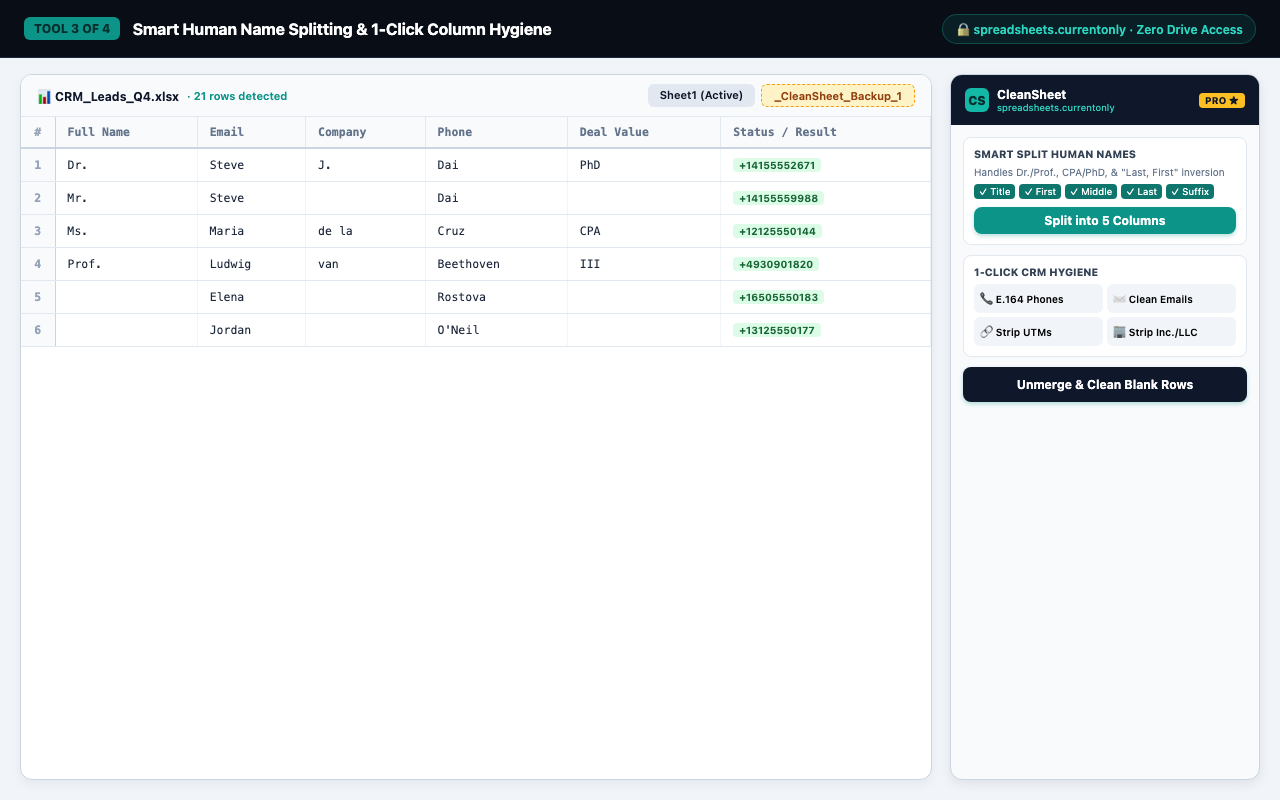
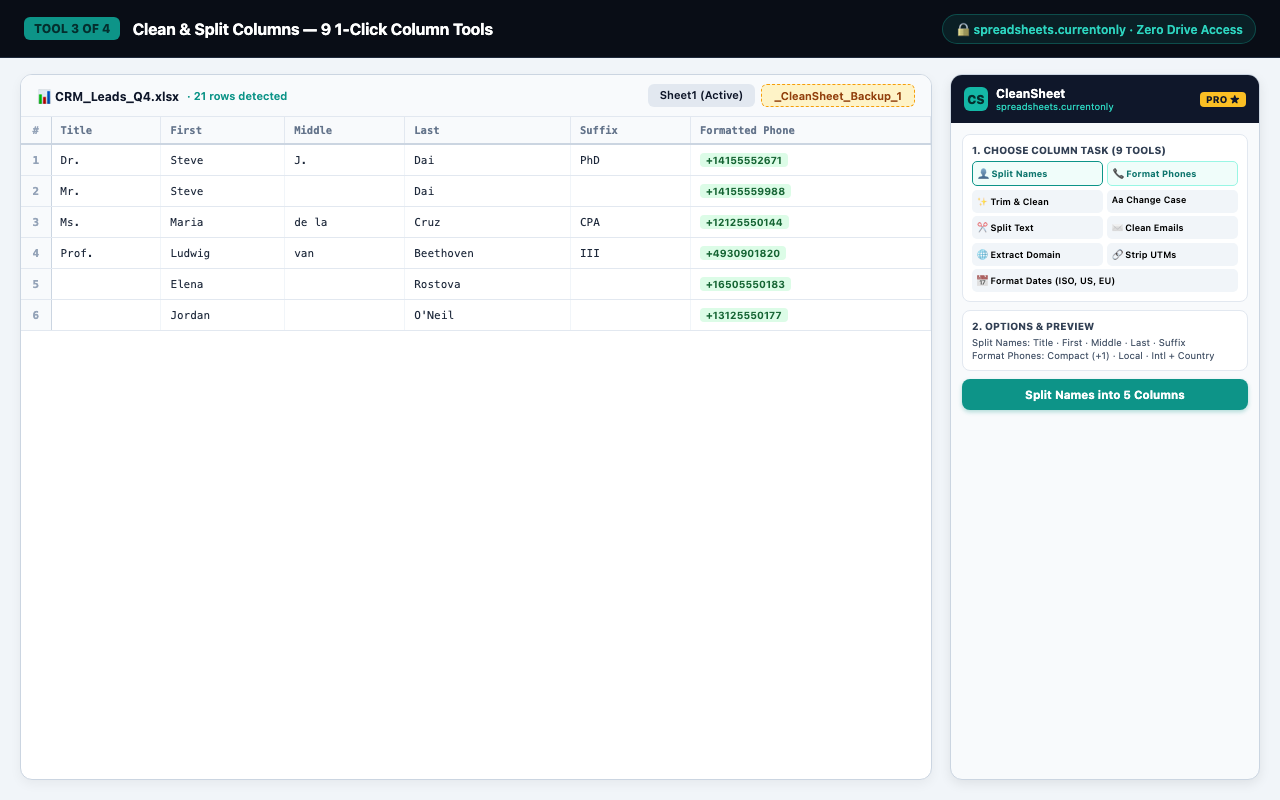
docs(site): sync v14 copy and PNG screenshots for cleansheet.sdaicode.com

diff --git a/index.html b/index.html
@@ -7,7 +7,7 @@
     <title>CleanSheet — Privacy-First Duplicate Remover &amp; CRM Cleaner for Google Sheets</title>
     <meta
       name="description"
-      content="Find exact and fuzzy duplicates, consolidate duplicate rows with Pick Winner rules, split human names, and standardize phones &amp; emails in Google Sheets — using only spreadsheets.currentonly."
+      content="Find exact and fuzzy duplicates, combine duplicate rows, split human names, clean CRM columns, and run AI prompts in Google Sheets — using only spreadsheets.currentonly."
     />
     <link rel="icon" type="image/png" sizes="32x32" href="./assets/icon-32.png" />
     <style>
@@ -174,7 +174,7 @@
       }
       .gallery {
         display: grid;
-        grid-template-columns: repeat(auto-fit, minmax(440px, 1fr));
+        grid-template-columns: repeat(auto-fit, minmax(min(100%, 440px), 1fr));
         gap: 24px;
       }
       .gallery img {
@@ -313,10 +313,10 @@
         <span class="scope-pill" style="background: #f0fdfa; color: #0f766e; border-color: #99f6e4">
           Zero Google Drive Access · Dry-Run Preview · 1-Click Undo
         </span>
-        <h1>Clean Messy CRM Sheets, Dedupe Fuzzy Rows &amp; Consolidate Deals in Seconds</h1>
+        <h1>Clean Messy CRM Sheets, Dedupe Fuzzy Rows &amp; Consolidate Data in Seconds</h1>
         <p class="lead">
-          CleanSheet runs fuzzy Jaro-Winkler deduplication, 14-function duplicate consolidation, smart name
-          splitting, and E.164 phone formatting right inside your browser—requiring only
+          CleanSheet runs fuzzy Jaro-Winkler deduplication, duplicate row consolidation (Join &amp; Math), smart
+          name splitting, 9 column cleaners, and GPT AI normalization right inside your browser—requiring only
           <code>spreadsheets.currentonly</code>.
         </p>
         <div class="cta-row">
@@ -325,8 +325,8 @@
         </div>
         <img
           class="hero-shot"
-          src="./assets/screenshot-1-fuzzy-dedupe.svg"
-          alt="CleanSheet 4-Step Fuzzy Deduplication Wizard and Dry-Run Preview in Google Sheets"
+          src="./assets/screenshot-1-fuzzy-dedupe.png"
+          alt="CleanSheet Tool 1 Deduplicate Rows with Exact and Fuzzy Matching and Live Dry-Run Preview in Google Sheets"
           fetchpriority="high"
           width="1280"
           height="800"
@@ -341,21 +341,22 @@
         </p>
         <div class="grid-3">
           <div class="card">
-            <h3>1. Exact &amp; Fuzzy Remove Duplicates</h3>
+            <h3>1. Exact &amp; Fuzzy Deduplicate Rows</h3>
             <p>
-              4 modes (Duplicates Only, All Occurrences, Unique Only, Unique + 1st) with Jaro-Winkler similarity
-              (75%–95%) and automatic legal suffix stripping (<code>Stripe, Inc.</code> = <code>Stripe LLC</code>).
+              4 modes (Duplicates (Skip 1st), All Dupes (Incl. 1st), Unique Rows Only, 1st + Unique) with Jaro-Winkler
+              similarity (80%–96%) and automatic 30+ legal suffix stripping (<code>Stripe, Inc.</code> =
+              <code>Stripe LLC</code>).
             </p>
           </div>
           <div class="card">
-            <h3>2. Combine Rows + Pick Winner Rules</h3>
+            <h3>2. Combine Duplicate Rows (Join &amp; Math)</h3>
             <p>
-              All 14 math aggregations (SUM, AVERAGE, MEDIAN, MODE, STDEV, VAR…) plus CRM Winner Rules: Keep Most
-              Recent by Date column, Keep Longest, or Merge Unique with custom delimiters.
+              Consolidate duplicate records into one row with live Before &rarr; Merged group preview: join unique
+              values with custom delimiters or calculate SUM, AVERAGE, COUNT, MAX, and MIN.
             </p>
           </div>
           <div class="card">
-            <h3>3. Smart Human Name Splitter</h3>
+            <h3>3. Smart Human Name Splitting</h3>
             <p>
               Handles inverted commas (<code>Dai, Steve</code>), salutations (<code>Dr.</code>, <code>Prof.</code>),
               nobiliary particles (<code>de la Cruz</code>, <code>van Beethoven</code>), and credentials
@@ -363,25 +364,26 @@
             </p>
           </div>
           <div class="card">
-            <h3>4. E.164 Phone, Email &amp; UTM Hygiene</h3>
+            <h3>4. 9 1-Click Column Hygiene Tools</h3>
             <p>
-              Standardizes phone numbers to E.164, International, or National format; cleans
-              <code>&lt;mailto:...&gt;</code> emails; and strips <code>utm_*</code>, <code>gclid</code>, and
-              <code>fbclid</code> parameters in 1 click.
+              Format phones (Compact <code>+1415...</code>, Local <code>(415)...</code>, Intl <code>+1 415...</code>),
+              clean <code>&lt;mailto:...&gt;</code> emails, extract domains, strip <code>utm_*</code> /
+              <code>gclid</code> / <code>fbclid</code> params, split delimited text, change case, format dates, and trim
+              noise.
             </p>
           </div>
           <div class="card">
-            <h3>5. Micro-AI Batch Normalizer</h3>
+            <h3>5. AI Normalizer (Custom Prompt &amp; 7 Presets)</h3>
             <p>
-              Maps raw job titles into standard B2B department personas and canonicalizes brand names in 100-row
-              batches backed by SHA-256 content caching (cached hits use 0 AI credits).
+              Run any row-by-row custom GPT prompt or 7 built-in presets (Clean Company, Job &rarr; Persona, Classify,
+              Extract, Summarize, Translate, Split Address) backed by SHA-256 caching (0 credits on repeat cache hits).
             </p>
           </div>
           <div class="card">
             <h3>6. Dry-Run Preview &amp; 1-Click Undo</h3>
             <p>
-              Inspect exact duplicate clusters before modifying a single cell, and restore your sheet in 1 click
-              from an automatic hidden snapshot tab inside the same workbook.
+              Inspect exact duplicate clusters or before/after changes prior to writing a cell, and restore in 1 click
+              from an automatic undo patch or hidden backup tab inside the same workbook.
             </p>
           </div>
         </div>
@@ -392,29 +394,29 @@
         <p class="section-sub">Built for the 300px Google Sheets sidebar with zero horizontal scrolling.</p>
         <div class="gallery">
           <img
-            src="./assets/screenshot-2-combine-rows.svg"
-            alt="Combine Duplicate Rows with 14 Math Aggregations and Pick Winner Rules"
+            src="./assets/screenshot-2-combine-rows.png"
+            alt="Tool 2 Combine Duplicate Rows with Join Unique Values, Math Aggregations, and Live Group Preview"
             loading="lazy"
             width="1280"
             height="800"
           />
           <img
-            src="./assets/screenshot-3-split-names.svg"
-            alt="Smart Human Name Splitter handling titles, particles, and credentials"
+            src="./assets/screenshot-3-split-names.png"
+            alt="Tool 3 Clean and Split Columns with 9 1-Click Column Tools including Split Names and Format Phones"
             loading="lazy"
             width="1280"
             height="800"
           />
           <img
-            src="./assets/screenshot-4-smart-clean.svg"
-            alt="Smart Clean E.164 Phone Formatter, Email Cleaner, and UTM Stripper"
+            src="./assets/screenshot-4-smart-clean.png"
+            alt="Tool 4 AI Normalizer with Custom Prompt, 7 Smart Presets, and SHA-256 Cache Hits"
             loading="lazy"
             width="1280"
             height="800"
           />
           <img
-            src="./assets/screenshot-5-micro-ai.svg"
-            alt="Micro-AI Batch Normalizer with SHA-256 Content Caching"
+            src="./assets/screenshot-5-micro-ai.png"
+            alt="Privacy-First Zero Google Drive Access and Non-Destructive 1-Click Undo"
             loading="lazy"
             width="1280"
             height="800"
@@ -442,12 +444,12 @@
             <tr>
               <td><strong>Dry-Run Preview Before Writing</strong></td>
               <td>No (mutates sheet immediately)</td>
-              <td><strong>Yes — live Dry-Run Match Inspector</strong></td>
+              <td><strong>Yes — live Dry-Run Match &amp; Before/After Inspector</strong></td>
             </tr>
             <tr>
               <td><strong>1-Click Non-Destructive Undo</strong></td>
               <td>Optional manual backup copy</td>
-              <td><strong>Automatic hidden snapshot tab + 1-Click Restore</strong></td>
+              <td><strong>Automatic undo patch / hidden backup tab + 1-Click Restore</strong></td>
             </tr>
             <tr>
               <td><strong>Fuzzy Deduplication (Typos &amp; Inc./LLC)</strong></td>
@@ -455,9 +457,9 @@
               <td><strong>Built-in Jaro-Winkler + 30+ legal suffix canonicalizer</strong></td>
             </tr>
             <tr>
-              <td><strong>Combine Rows Pick-Winner Rules</strong></td>
-              <td>Merge / Math only</td>
-              <td><strong>14 Math Functions + Keep Most Recent by Date / Longest</strong></td>
+              <td><strong>Combine Duplicate Rows (Join &amp; Math)</strong></td>
+              <td>Basic merge without live group preview</td>
+              <td><strong>Join Unique Values + SUM, AVERAGE, COUNT, MAX &amp; MIN + Live Preview</strong></td>
             </tr>
             <tr>
               <td><strong>Multi-Account Sign-In Reliability</strong></td>
@@ -471,7 +473,8 @@
       <section id="pricing" class="block">
         <h2 class="section-title">Simple, Coffee-Priced Plans</h2>
         <p class="section-sub">
-          Unlimited Dry-Run Previews &amp; up to 1,000 rows/run are 100% free forever. One simple $5/month plan unlocks unlimited rows, Fuzzy Jaro-Winkler apply, &amp; 15,000 AI rows/mo.
+          Unlimited Dry-Run Previews &amp; up to 1,000 rows/run are 100% free forever. CleanSheet Pro starts at
+          $5/month to unlock unlimited rows, Fuzzy Jaro-Winkler apply, &amp; 15,000 AI rows/mo.
         </p>
         <div class="grid-3" style="max-width: 780px; margin: 0 auto">
           <div class="card">
@@ -479,18 +482,18 @@
             <p><strong>Forever Free · No Credit Card Needed</strong></p>
             <ul>
               <li>Unlimited Dry-Run Previews on any sheet size</li>
-              <li>Clean up to 1,000 rows/run (Delete/Clear/Highlight Exact Duplicates, Split Names, Text Clean)</li>
-              <li>100 Micro-AI row credits / month (cache hits cost 0)</li>
+              <li>Clean up to 1,000 rows/run (Exact Dedupe, Combine Rows, All 9 Column Tools)</li>
+              <li>100 AI Normalizer row credits / month (cache hits cost 0)</li>
               <li>1-Click Non-Destructive Undo</li>
             </ul>
           </div>
           <div class="card" style="border-color: #0f766e; background: #f0fdfa">
-            <h3>CleanSheet Pro — $5/month</h3>
-            <p><strong>Single Simple Plan · Cancel Anytime</strong></p>
+            <h3>CleanSheet Pro — from $5/mo</h3>
+            <p><strong>Flexible Monthly / Annual / Lifetime Plans</strong></p>
             <ul>
-              <li>Unlimited rows per run + Fuzzy Jaro-Winkler Dedupe</li>
-              <li>Combine Rows CRM Pick-Winner Rules (Most Recent / Longest) &amp; Move to New Tab</li>
-              <li>15,000 Micro-AI row credits / month (<code>gpt-6-luna</code>)</li>
+              <li>Unlimited rows per run + Fuzzy Jaro-Winkler apply</li>
+              <li>Move or Copy duplicates to a new sheet tab &amp; unlimited saved scenarios</li>
+              <li>15,000 AI Normalizer row credits / month</li>
               <li>Priority support &amp; all Pro updates</li>
             </ul>
             <div style="margin-top: 16px; padding: 12px 14px; border-radius: 8px; background: #ffffff; border: 1px solid #99f6e4; font-size: 0.9rem; color: #0f172a">
@@ -521,10 +524,10 @@
         <details>
           <summary>Does my spreadsheet data leave my browser?</summary>
           <div class="faq-body">
-            For all deterministic and fuzzy tools (Remove Duplicates, Combine Duplicate Rows, Split Names, E.164
-            Phone Formatting, Email &amp; UTM Cleaning, Change Case, and Space/HTML Trimming), 100% of processing
-            runs locally inside your browser iframe. Only if you explicitly click the optional Micro-AI Batch
-            Normalizer button are the selected column cells sent over TLS to our stateless normalizer API.
+            For all deterministic and fuzzy tools (Deduplicate Rows, Combine Duplicate Rows, Split Names, Format
+            Phones, Email Cleaning, Domain Extraction, UTM Cleaning, Change Case, Date Formatting, and Space/HTML
+            Trimming), 100% of processing runs locally inside your browser iframe. Only if you explicitly run the
+            optional AI Normalizer tool are the selected column cells sent over TLS to our normalization API.
           </div>
         </details>
         <details>
@@ -555,7 +558,8 @@
       </div>
     </footer>
     <script>
-      if (new URLSearchParams(window.location.search).get('checkout') === 'success') {
+      const params = new URLSearchParams(window.location.search);
+      if (params.get('upgraded') === '1' || params.get('checkout') === 'success') {
         const b = document.getElementById('checkout-success-banner');
         if (b) b.style.display = 'block';
       }

diff --git a/privacy.html b/privacy.html
@@ -94,16 +94,17 @@
       <h2>2. How Your Spreadsheet Data Is Processed</h2>
       <ul>
         <li>
-          <strong>100% In-Browser Deterministic &amp; Fuzzy Processing:</strong> When you run Remove Duplicates,
-          Combine Duplicate Rows, Split Names, E.164 Phone Formatting, Email Normalization, URL Tracking Parameter
-          Stripping, Change Case, or Whitespace/HTML Trimming, your spreadsheet cells are processed entirely inside
-          your web browser and Google Apps Script. None of this data is transmitted to external servers.
+          <strong>100% In-Browser Deterministic &amp; Fuzzy Processing:</strong> When you run Deduplicate Rows,
+          Combine Duplicate Rows, Split Names, Split Text, Phone Number Formatting, Email Cleaning, Domain
+          Extraction, URL Tracking Parameter Stripping, Date Formatting, Change Case, or Whitespace/HTML Trimming,
+          your spreadsheet cells are processed entirely inside your web browser and Google Apps Script. None of this
+          data is transmitted to external servers.
         </li>
         <li>
-          <strong>Optional Micro-AI Batch Normalizer:</strong> Only when you explicitly click the optional
-          <em>Micro-AI Batch Normalizer</em> button are the cells of your selected column transmitted over encrypted
-          TLS to our stateless normalization endpoint to return standardized values. We never use customer
-          spreadsheet data to train or fine-tune AI models.
+          <strong>Optional AI Normalizer:</strong> Only when you explicitly run the optional
+          <em>AI Normalizer</em> tool are the cells of your selected column (plus your selected preset/prompt)
+          transmitted over encrypted TLS to our normalization endpoint to return standardized values. We never use
+          customer spreadsheet data to train or fine-tune AI models.
         </li>
       </ul>
 
@@ -118,7 +119,7 @@
           per-user <code>PropertiesService.getUserProperties()</code> container associated with your Google account.
         </li>
         <li>
-          <strong>Account &amp; Quota Metadata:</strong> To enforce Free vs. Pro monthly Micro-AI row quotas, we
+          <strong>Account &amp; Quota Metadata:</strong> To enforce Free vs. Pro monthly AI Normalizer row quotas, we
           store an anonymized user identifier (<code>Session.getTemporaryActiveUserKey()</code>), plan tier, and
           credit counter.
         </li>

diff --git a/terms.html b/terms.html
@@ -58,8 +58,8 @@
 
       <h2>2. Service Description &amp; Backups</h2>
       <p>
-        CleanSheet provides data deduplication, row consolidation, name splitting, contact normalization, and
-        optional Micro-AI batch standardization inside Google Sheets. CleanSheet includes an optional automatic
+        CleanSheet provides data deduplication, row consolidation, name &amp; text splitting, column hygiene, and
+        optional AI Normalizer processing inside Google Sheets. CleanSheet includes an optional automatic
         hidden backup tab feature (<code>_CleanSheet_Backup_*</code>) and Dry-Run Preview; however, you remain
         responsible for maintaining backups of critical business spreadsheets.
       </p>
@@ -68,12 +68,12 @@
       <ul>
         <li>
           <strong>Free Tier:</strong> Includes unlimited dry-run previews, deterministic cleaning for up to 1,000
-          rows per run, and 100 Micro-AI row credits per calendar month at no charge.
+          rows per run, and 100 AI Normalizer row credits per calendar month at no charge.
         </li>
         <li>
-          <strong>CleanSheet Pro:</strong> Available at <strong>$5.00 USD / month</strong> (cancel anytime),
-          unlocking unlimited rows per run, Jaro-Winkler fuzzy duplicate matching, CRM pick-winner merge rules,
-          and 15,000 Micro-AI row credits per month.
+          <strong>CleanSheet Pro:</strong> Available starting at <strong>$5.00 USD / month</strong> (cancel
+          anytime), unlocking unlimited rows per run, Jaro-Winkler fuzzy duplicate apply, move/copy duplicates to a
+          new sheet tab, unlimited saved scenarios, and 15,000 AI Normalizer row credits per month.
         </li>
         <li>
           <strong>Cancellations &amp; Refunds:</strong> You may cancel your subscription at any time via the
